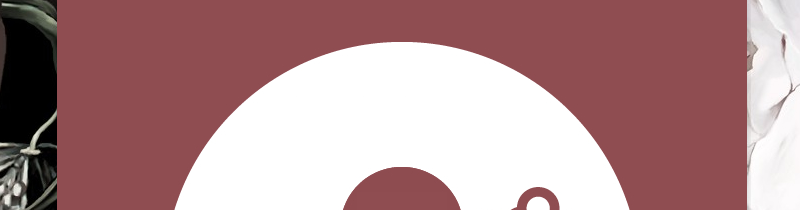
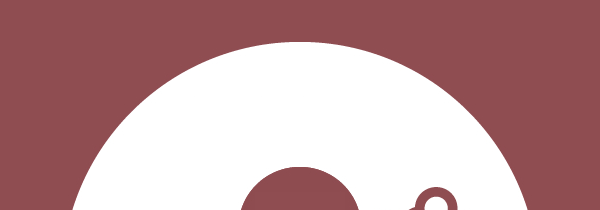
tweaked the email to use images

diff --git a/entry.php b/entry.php
@@ -33,12 +33,12 @@ function sendEmail($email, $code, $goal, $name, $id) {
 	$message .= "<table cellpadding='0' cellspacing='0' border='0' width='100%'>\n";
 	$message .= "<tr>\n";
 	$message .= "<td>\n";
-	$message .= "<table cellpadding='0' cellspacing='0' border='0' style='width: 800px;' width='800' background='http://www.waltonsecret.com/images/email/email_bg.png'>\n";
+	$message .= "<table cellpadding='0' cellspacing='0' border='0' style='width: 600px;' width='600' background='http://www.waltonsecret.com/images/email/email_bg.png'>\n";
 	$message .= "<tr>\n";
-	$message .= "<td width='800' background='http://waltonsecret.com/images/email/top.png' colspan='3' style='color: #eeeeee; font-size: 8px; font-family: \"Century Gothic\", CenturyGothic, AppleGothic, sans-serif; background: transparent url(http://waltonsecret.com/images/email/top.png) left top no-repeat; text-align: center; height: 210px;' valign='top'>\n";
-	$message .= "<table cellpadding='0' cellspacing='0' border='0' width='800'>\n\n";
+	$message .= "<td width='600' background='http://waltonsecret.com/images/email/top.png' colspan='3' style='color: #eeeeee; font-size: 8px; font-family: \"Century Gothic\", CenturyGothic, AppleGothic, sans-serif; background: transparent url(http://waltonsecret.com/images/email/top.png) left top no-repeat; text-align: center; height: 210px;' valign='top'>\n";
+	$message .= "<table cellpadding='0' cellspacing='0' border='0' width='600'>\n\n";
 	$message .= "<tr>\n";
-	$message .= "<td align='center' width='800' height='20' colspan='3'>\n";
+	$message .= "<td align='center' width='600' height='20' colspan='3'>\n";
 	$message .= "<p style='color: #bbbbbb; font-size: 10px; margin: 0; margin-top: 2px; padding-top: 0px; font-family: \"Century Gothic\", CenturyGothic, AppleGothic, sans-serif;'>\n";
 	$message .= "if it does not display properly <a style='color: #bbbbbb !important; font-size: 10px; padding-top: 10px; font-family: \"Century Gothic\", CenturyGothic, AppleGothic, sans-serif;' href='http://waltonsecret.com/email.php?user=".$id."&code=".$code."' >click here</a> to view it in your browser</p>\n";
 	$message .= "</td>\n";
@@ -47,11 +47,11 @@ function sendEmail($email, $code, $goal, $name, $id) {
 	$message .= "<td height='40' colspan='3'></td>\n";
 	$message .= "</tr>\n";
 	$message .= "<tr>\n";
-	$message .= "<td width='240'></td>\n";
+	$message .= "<td width='140'></td>\n";
 	$message .= "<td align='center' height='115' width='320'>\n";
 	$message .= "<p style='width:290px; padding: 0 15px; line-height: 1.4em; color: #AAAAAA; font-size: 11px; font-family: \"Century Gothic\", CenturyGothic, AppleGothic, sans-serif;'>Keep your key safe to receive your special gift after out launch in 2015. You will be contacted with further details on claiming you gift at a later date.</p>\n";
 	$message .= "</td>\n";
-	$message .= "<td width='240'></td>\n";
+	$message .= "<td width='140'></td>\n";
 	$message .= "</tr>\n";
 	$message .= "<tr>\n";
 	$message .= "<td width='240'></td>\n";
@@ -66,20 +66,20 @@ function sendEmail($email, $code, $goal, $name, $id) {
 	$message .= "</td>\n";
 	$message .= "</tr>\n";
 	$message .= "<tr>\n";
-	$message .= "<td width='348' style='width: 348px;' height='45'><img width='348px' style='width: 348px; display: block' src='http://waltonsecret.com/images/email/left.png'/></td>\n";
+	$message .= "<td width='246' style='width: 246px;' height='45'><img width='246px' style='width: 246px; display: block' src='http://waltonsecret.com/images/email/left.png'/></td>\n";
 	$message .= "<td width='104' height='45' style='width: 104px;'><img width='104px' style='display: block; width: 104px;' src='";
 	$message .= "http://waltonsecret.com/images/email_codes/".$code.".png";
 	$message .= "' alt='Your code' /></td>\n";
-	$message .= "<td width='348' style='width: 348px;' height='45'><img width='348px' style='width: 348px; display: block' src='http://waltonsecret.com/images/email/right.png'/></td>\n";
+	$message .= "<td width='246' style='width: 250px;' height='45'><img width='250px' style='width: 250px; display: block' src='http://waltonsecret.com/images/email/right.png'/></td>\n";
 	$message .= "</tr>\n";
 	$message .= "<tr>\n";
-	$message .= "<td colspan='3' background='http://waltonsecret.com/images/email/bottom.png' width='800' height='620' valign='top' style='background: transparent url(http://waltonsecret.com/images/email/bottom.png) left top no-repeat'>\n";
-	$message .= "<table cellpadding='0' cellspacing='0' border='0' width='800'>\n";
+	$message .= "<td colspan='3' background='http://waltonsecret.com/images/email/bottom.png' width='600' height='620' valign='top' style='background: transparent url(http://waltonsecret.com/images/email/bottom.png) left top no-repeat'>\n";
+	$message .= "<table cellpadding='0' cellspacing='0' border='0' width='600'>\n";
 	$message .= "<tr>\n";
 	$message .= "<td style='padding-top: 50px;'>\n";
-	$message .= "<table cellpadding='0' cellspacing='0' border='0' width='800'>\n";
+	$message .= "<table cellpadding='0' cellspacing='0' border='0' width='600'>\n";
 	$message .= "<tr>\n";
-	$message .= "<td width='215'></td>\n";
+	$message .= "<td width='115'></td>\n";
 	$message .= "<td width='370' align='center'>\n";
 	$message .= "<table cellpadding='0' cellspacing='0' border='0' width='370'>\n";
 	$message .= "<tr>\n";
@@ -96,16 +96,16 @@ function sendEmail($email, $code, $goal, $name, $id) {
 	$message .= "</tr>\n";
 	$message .= "</table>\n";
 	$message .= "</td>\n";
-	$message .= "<td width='215'></td>\n";
+	$message .= "<td width='115'></td>\n";
 	$message .= "</tr>\n";
 	$message .= "</table>\n";
 	$message .= "</td>\n";
 	$message .= "</tr>\n";
 	$message .= "<tr>\n";
 	$message .= "<td>\n";
-	$message .= "<table cellpadding='0' cellspacing='0' border='0' width='800'>\n";
+	$message .= "<table cellpadding='0' cellspacing='0' border='0' width='600'>\n";
 	$message .= "<tr>\n";
-	$message .= "<td width='270' style='width:270px;'></td>\n";
+	$message .= "<td width='170' style='width:270px;'></td>\n";
 	$message .= "<td width='260' style='padding-top: 50px;'>\n";
 	$message .= "<table cellpadding='0' cellspacing='0' border='0' width='260' style='border-top: 1px solid #AAAAAA; border-bottom: 1px solid #AAAAAA; height: 240px;'>\n";
 	$message .= "<tr>\n";
@@ -120,10 +120,10 @@ function sendEmail($email, $code, $goal, $name, $id) {
 	$message .= "</tr>\n";
 	$message .= "</table>\n";
 	$message .= "</td>\n";
-	$message .= "<td width='270'style='width:270px;'></td>\n";
+	$message .= "<td width='170'style='width:270px;'></td>\n";
 	$message .= "</tr>\n";
 	$message .= "<tr>\n";
-	$message .= "<td width='270' style='width:270px;'></td>\n";
+	$message .= "<td width='170' style='width:270px;'></td>\n";
 	$message .= "<td width='260' style='width: 260px; padding-top: 20px;'>\n";
 	$message .= "<table cellpadding='0' cellspacing='0' border='0' width='260'>\n";
 	$message .= "<tr>\n";
@@ -140,7 +140,7 @@ function sendEmail($email, $code, $goal, $name, $id) {
 	$message .= "</tr>\n";
 	$message .= "</table>\n";
 	$message .= "</td>\n";
-	$message .= "<td width='270' style='width:270px;'></td>\n";
+	$message .= "<td width='170' style='width:270px;'></td>\n";
 	$message .= "</tr>\n";
 	$message .= "</table>\n";
 	$message .= "</td>\n";
